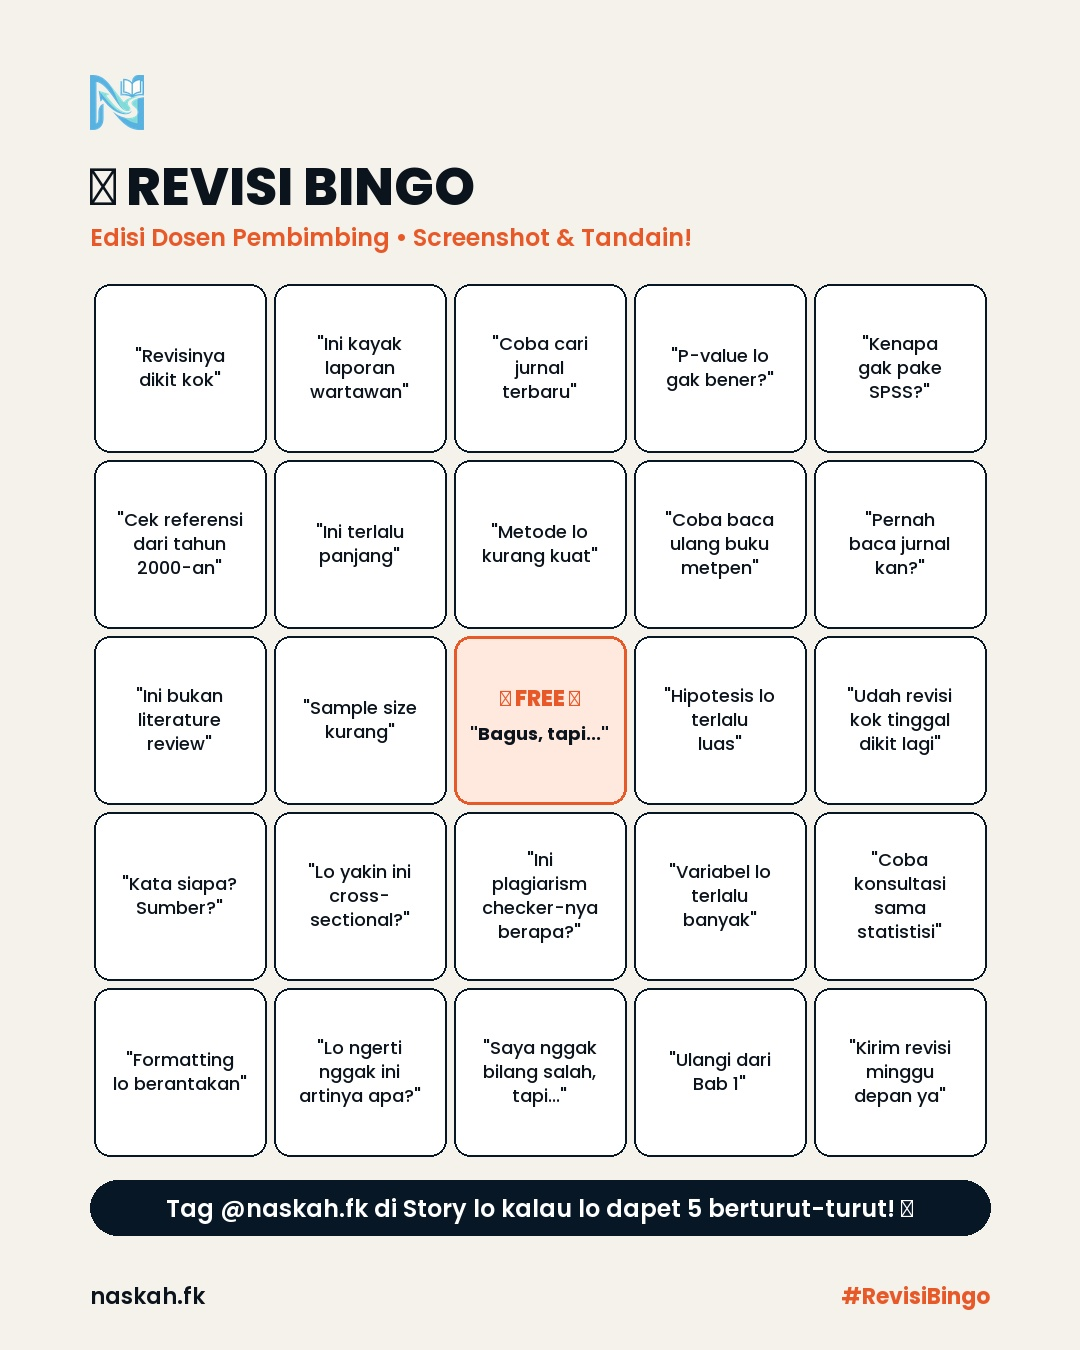
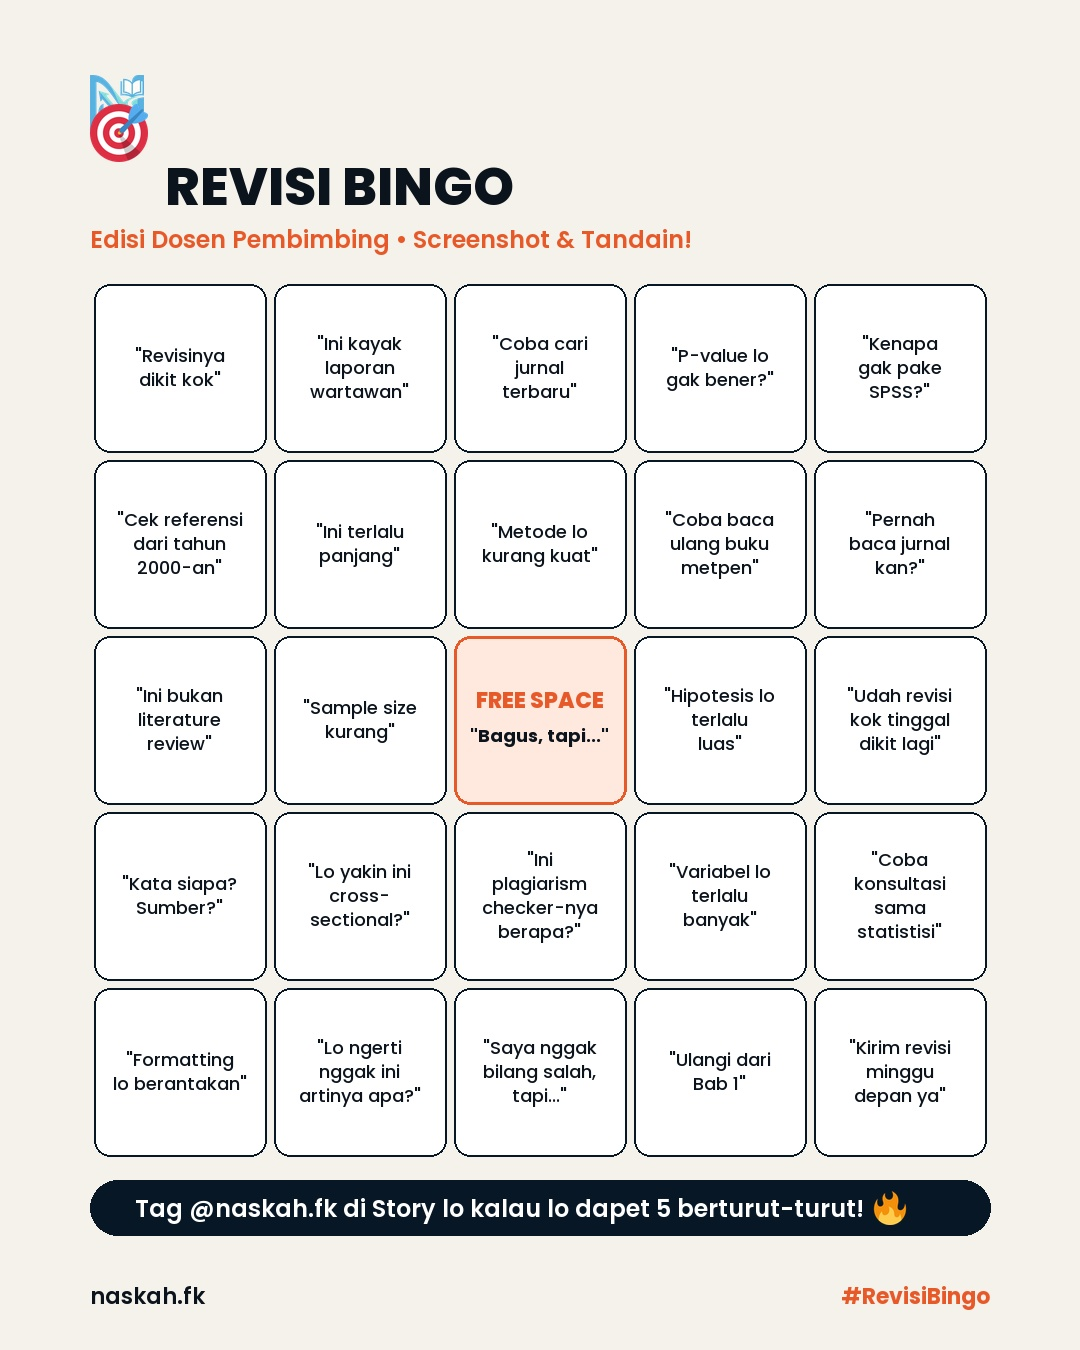
fix(assets): download official emoji PNGs, resolve broken glyphs in Bingo render and add emoji_assets module

Changed region(s): [[0.0611, 0.0622, 0.6417, 0.1867], [0.1222, 0.8711, 0.8556, 0.9022], [0.4278, 0.4978, 0.55, 0.56]]

diff --git a/04_GENERATORS/emoji_assets.py b/04_GENERATORS/emoji_assets.py
@@ -1,0 +1,129 @@
+"""
+Naskah Emoji Asset Helper — download & paste emoji PNG onto renders.
+
+Why: Pillow cannot render color emoji from Poppins (they show as tofu/missing glyph).
+Download official Twemoji-style PNGs into 02_BRAND_ASSETS/emojis/ and paste them
+as raster images onto the canvas at the requested position/size.
+
+If an emoji PNG is missing, fall back safely to a small branded dot/star so we
+NEVER render tofu (missing glyph) again.
+"""
+from __future__ import annotations
+
+import json
+import pathlib
+import urllib.request
+from PIL import Image, ImageDraw
+
+BASE_DIR = pathlib.Path(r"D:/tm/06_Content")
+EMOJI_DIR = BASE_DIR / "02_BRAND_ASSETS/emojis"
+EMOJI_MAP_FILE = EMOJI_DIR / "emojis.json"
+
+# Known emoji codepoints used by Naskah content
+EMOJI_CODEPOINTS = {
+    "🎯": "1f3af",
+    "📸": "1f4f8",
+    "🔥": "1f525",
+    "💛": "1f49b",
+    "🏆": "1f3c6",
+    "🫠": "1fae0",
+    "🏥": "1f3e5",
+    "🎬": "1f3ac",
+    "🧰": "1f9f0",
+    "🧵": "1f9f5",
+    "⏭": "23ed",
+    "⚠": "26a0",
+    "🏢": "1f3e2",
+    "💻": "1f4bb",
+    "📚": "1f4da",
+    "🧠": "1f9e0",
+    "✍": "270d",
+    "⏰": "23f0",
+    "📅": "1f4c5",
+    "🎓": "1f393",
+    "⭐": "2b50",
+    "✅": "2705",
+    "❌": "274c",
+    "💾": "1f4be",
+    "💬": "1f4ac",
+}
+
+CDN_TEMPLATES = [
+    "https://cdn.jsdelivr.net/gh/realityripple/emoji@latest/twemoji/{codepoint}.png",
+    "https://twemoji.maxcdn.com/v/14.0.2/72x72/{codepoint}.png",
+]
+
+
+def _ensure_emoji_map():
+    if not EMOJI_MAP_FILE.exists():
+        EMOJI_MAP_FILE.write_text(json.dumps(EMOJI_CODEPOINTS, ensure_ascii=False, indent=2), encoding="utf-8")
+
+
+def get_emoji_path(char: str) -> pathlib.Path | None:
+    """Return local path for an emoji, downloading it if missing."""
+    if not char or char not in EMOJI_CODEPOINTS:
+        return None
+    cp = EMOJI_CODEPOINTS[char]
+    local = EMOJI_DIR / f"{cp}.png"
+    if local.exists():
+        return local
+    EMOJI_DIR.mkdir(parents=True, exist_ok=True)
+    _ensure_emoji_map()
+    for template in CDN_TEMPLATES:
+        url = template.format(codepoint=cp)
+        try:
+            req = urllib.request.Request(url, headers={"User-Agent": "NaskahSocialOS/1.0"})
+            with urllib.request.urlopen(req, timeout=20) as resp:
+                data = resp.read()
+            if len(data) > 500:
+                local.write_bytes(data)
+                print(f"[emoji] Downloaded {char} -> {local.name}")
+                return local
+        except Exception as exc:
+            print(f"[emoji] Download failed for {char} via {url}: {exc}")
+    return None
+
+
+def paste_emoji(im: Image.Image, char: str, xy: tuple[float, float], size: int,
+                anchor: str = "la", fallback: str = "●") -> tuple[int, int] | None:
+    """
+    Paste an emoji PNG onto image at xy with given size.
+    anchor: 'la' = left-ascender (like text anchor), 'mm' = middle-middle.
+    Fallback: if PNG missing, draw a small branded dot instead of tofu.
+    Returns pasted (width, height) extent, or None if nothing drawn.
+    """
+    path = get_emoji_path(char)
+    x, y = xy
+    if path and path.exists():
+        try:
+            emoji = Image.open(path).convert("RGBA").resize((size, size), Image.Resampling.LANCZOS)
+            w, h = emoji.size
+            if anchor == "mm":
+                px, py = int(x - w / 2), int(y - h / 2)
+            elif anchor == "la":
+                px, py = int(x), int(y - h * 0.82)
+            elif anchor == "ra":
+                px, py = int(x - w), int(y - h * 0.82)
+            else:
+                px, py = int(x), int(y)
+            im.paste(emoji, (px, py), emoji)
+            return (w, h)
+        except Exception as exc:
+            print(f"[emoji] Paste failed for {char}: {exc}")
+    # Fallback: branded dot (never tofu)
+    d = ImageDraw.Draw(im)
+    r = size * 0.28
+    cx, cy = x, y
+    if anchor == "mm":
+        pass
+    elif anchor == "la":
+        cy = y - size * 0.4
+    else:
+        cy = y - size * 0.4
+    d.ellipse((cx - r, cy - r, cx + r, cy + r), fill="#E85929")
+    return (int(r * 2), int(r * 2))
+
+
+def strip_emojis(text: str) -> str:
+    """Remove emoji chars from a text string (for font-only renders)."""
+    return "".join(ch for ch in text if ch not in EMOJI_CODEPOINTS)

diff --git a/04_GENERATORS/render_revisi_bingo.py b/04_GENERATORS/render_revisi_bingo.py
@@ -5,9 +5,14 @@ Follows Naskah Locked V2 Template System:
 - Logo in top-left
 - 5x5 Bingo Grid with Free Space in the center
 - Clean Poppins typography
+- Emoji rendered as downloaded PNG assets (never tofu)
 """
 from pathlib import Path
 from PIL import Image, ImageDraw, ImageFont
+
+import sys
+sys.path.insert(0, str(Path(__file__).resolve().parent))
+from emoji_assets import paste_emoji, strip_emojis
 
 BASE_DIR = Path(r"D:/tm/06_Content")
 LOGO_TRANSPARENT = BASE_DIR / "02_BRAND_ASSETS/logos/logo_cutouts_clean/official_logo_transparent.png"
@@ -61,9 +66,10 @@ def render_bingo():
         mark = raw_logo.resize((w_logo, h_logo), Image.Resampling.LANCZOS)
         im.paste(mark, (90, 75), mark)
 
-    # Header Text
-    d.text((90, 150), "🎯 REVISI BINGO", font=F["title_main"], fill=INK)
-    d.text((90, 220), "Edisi Dosen Pembimbing • Screenshot & Tandain!", font=F["subtitle"], fill=ORANGE)
+    # Header Text — paste 🎯 PNG on the left, then title text
+    paste_emoji(im, "🎯", (90, 152), size=58, anchor="la")
+    d.text((165, 150), "REVISI BINGO", font=F["title_main"], fill=INK)
+    d.text((90, 222), "Edisi Dosen Pembimbing • Screenshot & Tandain!", font=F["subtitle"], fill=ORANGE)
 
     # Grid Setup (5x5)
     margin_x = 90
@@ -89,8 +95,8 @@ def render_bingo():
             if content == 'FREE_SPACE':
                 # Center Free Space
                 d.rounded_rectangle((box_x1, box_y1, box_x2, box_y2), radius=16, fill=FREE_BG, outline=ORANGE, width=3)
-                d.text(((box_x1 + box_x2)/2, (box_y1 + box_y2)/2 - 22), "★ FREE ★", font=F["free_title"], fill=ORANGE, anchor="mm")
-                d.text(((box_x1 + box_x2)/2, (box_y1 + box_y2)/2 + 14), '"Bagus, tapi..."', font=F["free_sub"], fill=INK, anchor="mm")
+                d.text(((box_x1 + box_x2)/2, (box_y1 + box_y2)/2 - 20), "FREE SPACE", font=F["free_title"], fill=ORANGE, anchor="mm")
+                d.text(((box_x1 + box_x2)/2, (box_y1 + box_y2)/2 + 16), '"Bagus, tapi..."', font=F["free_sub"], fill=INK, anchor="mm")
             else:
                 # Normal Cell
                 d.rounded_rectangle((box_x1, box_y1, box_x2, box_y2), radius=16, fill=WHITE, outline=NAVY, width=2)
@@ -103,7 +109,8 @@ def render_bingo():
 
     # Instruction Bar / Soft CTA
     d.rounded_rectangle((90, 1180, 990, 1235), radius=28, fill=NAVY)
-    d.text((540, 1208), "Tag @naskah.fk di Story lo kalau lo dapet 5 berturut-turut! 🔥", font=F["subtitle"], fill=WHITE, anchor="mm")
+    d.text((500, 1208), "Tag @naskah.fk di Story lo kalau lo dapet 5 berturut-turut!", font=F["subtitle"], fill=WHITE, anchor="mm")
+    paste_emoji(im, "🔥", (890, 1208), size=34, anchor="mm")
 
     # Footer
     d.text((90, 1280), "naskah.fk", font=F["footer_brand"], fill=INK)
